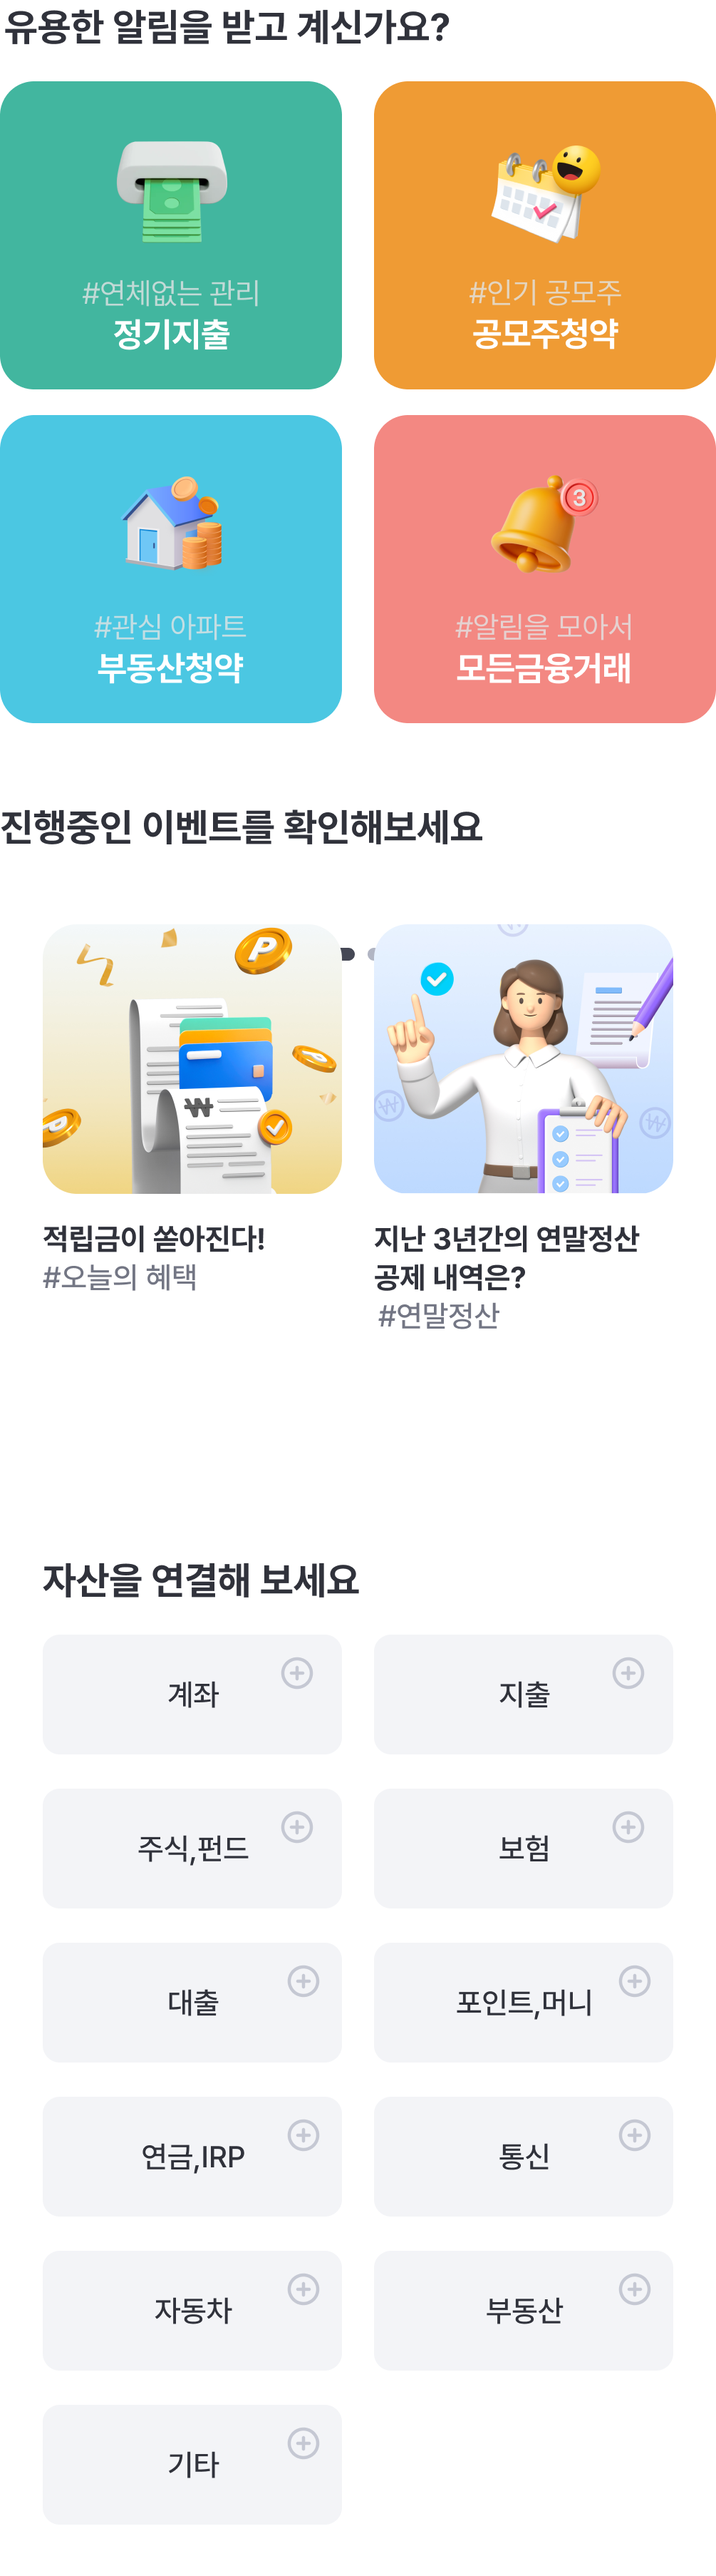
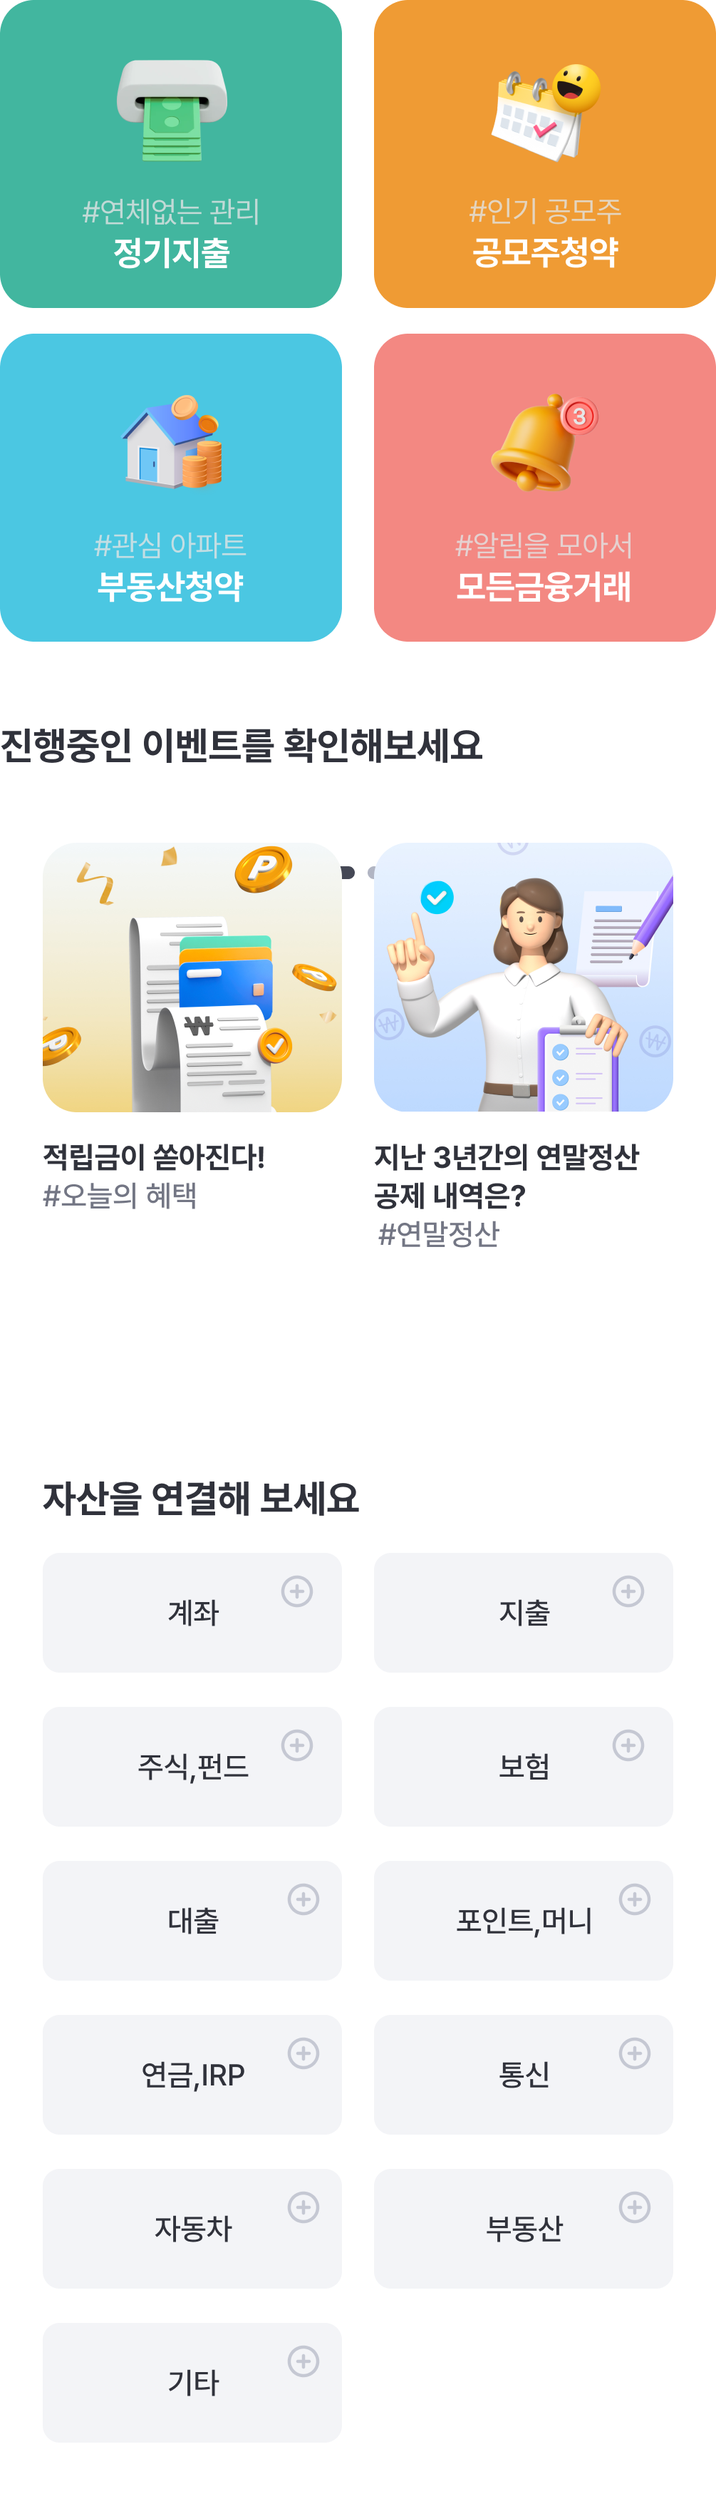
수정

diff --git a/a-asset.html b/a-asset.html
@@ -11,17 +11,27 @@
         <!-- css style -->
         <style>
             .container{position:relative;height:auto;background:#F3F4F7 !important;}
-            .container::before{content:"";position:absolute;top:0;left:0;right:0;width:375px;height:400px;background:url("./images/A/asset/RectangleBg.png") no-repeat 0 0 / 100%;z-index:}
-            header, .top_menu, .contents{position: relative;}
+            .container::before{content:"";position:fixed;top:0;left:0;right:0;margin:0 auto;width:375px;height:400px;background:url("./images/A/asset/RectangleBg_1.png") no-repeat 0 0 / 100%;}
+            .container.on::before{content:"";position:fixed;top:0;left:0;right:0;margin:0 auto;width:375px;height:400px;background:url("./images/A/asset/RectangleBg_2.png") no-repeat 0 0 / 100%;}
+            .top_menu{position:fixed;z-index:50;}
+            header, .top_menu{background:#4393F0 }
+            .contents{padding-top:140px;}
             .alarm_banner{margin:0 auto;padding:20px 20px 0 20px}
+            .alarm_banner{position:relative;}
             .content-1{position:relative;padding:32px 20px 36px}
             .content-2{position:relative;padding:0 20px 52px}
+            .content-2 .cont_tit{font-size:18px;font-weight:700;line-height:26px;color:#30323B;}
+            .cont_tit + img{margin-top:12px;}
+            img + .cont_tit{margin-top:36px;}
             /* 아코디언 */
             .accordion{margin-top:16px;padding:24px 20px 20px 20px;border-radius:16px;background:#FFFFFF;}
-            .accordion h2{display:flex;justify-content:center;padding-top:16px;font-size:14px;font-weight:500;line-height:20px;color:#737684;}
+            .accordion h2{position:relative;display:flex;justify-content:center;margin-top:40px;padding-top:16px;font-size:14px;font-weight:500;line-height:20px;border-top:1px solid #E1E3E4;color:#737684;}
             .accordion h2 a{position:relative;}
-            .accordion h2 a::after{content:"";position:absolute;right:-28px;top:50%;transform:translateY(-50%)rotate(180deg);width:12px;height:12px;background:url("./images/asset/btn_arrow.svg") no-repeat 0 0 / 100%;}
-            .accordion h2 a.open::after{transform: translateY(-50%);}
+            .accordion h2 a::after{content:"";position:absolute;right:-16px;top:50%;transform:translateY(-50%);width:12px;height:12px;background:url("./images/A/asset/btn_arrow.svg") no-repeat 0 0 / 100%;transition:transform 0.3s ease;}
+            .accordion h2 a.open::after{transform:translateY(-50%)  rotate(180deg);}
+            .accordion h2 a.close::after{transform:translateY(-50%) rotate(0deg);}
+            .graph + .accor_contents{margin-top:40px;}
+            .accor_contents{display:none;}
             /* bar graph */
             .graph {overflow:hidden;display:flex;align-items:flex-end;justify-content:center;position:absolute;top:224px;left:40px;width:295px;height:142px;}
             .bar {width:28px;border-radius:8px;background:#E1E3EA;transition:transform 0.5s ease-out;transform:translateY(100%);}
@@ -43,14 +53,14 @@
         <div class="container type">
             <div class="top_menu">
                 <img src="./images/A/asset/gnb_sub.png" alt="">
+                <img class="tab_menu" src="./images/A/asset/2dthMenu.png" alt="">
             </div>
             <!-- contents -->
             <div class="contents">
-                <img src="./images/A/asset/2dthMenu.png" alt="">
                 <img class="alarm_banner" src="./images/A/asset/banner.png" alt="">
                 <div class="content-1">
                     <img src="./images/A/asset/myasset.png" alt="">
-                    <div class="accordion">
+                    <div class="accordion">  
                         <img class="accor_txt" src="./images/A/asset/acc_text.png" alt="">
                         <div class="graph">
                             <div class="bar bar-1"></div>
@@ -62,43 +72,95 @@
                             <img class="graph_txt01" src="./images/A/asset/textbox01.png" alt="">
                             <img class="graph_txt02" src="./images/A/asset/textbox02.png" alt="">
                         </div>
-                        <div class="folding-panel">
+                        <div class="accor_contents">
                             <img src="./images/A/asset/acc_contents.png" alt="">
                         </div>
                         <h2><a href="#none" class="folding-btn close" role="button">상세 열기</a></h2>
                     </div>
-
                 </div>
                 <div class="content-2">
-                    <img src="./images/A/asset/contents.png" alt="">
+                    <p class="cont_tit">유용한 알림을 받고 계신가요?</p>
+                    <img src="./images/A/asset/contents01.png" alt="">
+                    <p class="cont_tit">진행중인 이벤트를 확인해보세요</p>
+                    <img src="./images/A/asset/contents02.png" alt="">
                 </div>
             </div>
             <!-- // contents -->
         </div>
     </body> 
     <script>
-        $(document).ready(function() {
-            const bars = $('.bar');
-            const totalBars = bars.length;
-            const animationDelay = 200;
-            const textDelay = 300;
-    
-            bars.each(function(index) {
-                const bar = $(this);
-                setTimeout(function() {
-                    bar.css('transform', 'translateY(0)');
-                    
-                    if (index === totalBars - 1) {
-                        setTimeout(function() {
-                            $('.graph_txt01').css('opacity', '1');
-                            
-                            setTimeout(function() {
-                                $('.graph_txt02').css('opacity', '1');
-                            }, textDelay);
-                        }, animationDelay);
+$(document).ready(function() {
+    const contTitElements = document.querySelectorAll('.cont_tit');
+    contTitElements.forEach((element, index) => {
+        const observer = new IntersectionObserver((entries) => {
+            entries.forEach(entry => {
+                if (entry.isIntersecting) {
+                    if (document.querySelector('.container').classList.contains('on')) {
+                        entry.target.style.color = 'white';
+                    } else {
+                        entry.target.style.color = '';
                     }
-                }, index * animationDelay);
+                } else {
+                    entry.target.style.color = '';
+                }
             });
-        });
+        }, { threshold: 0.5 });
+
+        observer.observe(element);
+    });
+
+    // 스크롤 이벤트 핸들러
+    $(window).on('scroll', function() {
+        var tabMenuBottom = $('.tab_menu').offset().top + $('.tab_menu').outerHeight();
+        var content2Top = $('.content-2').offset().top;
+        var scrollTop = $(window).scrollTop();
+
+        if (scrollTop + tabMenuBottom >= content2Top) {
+            $('.container').addClass('on');
+            $('header, .top_menu').css('background', '#7A43F0');
+        } else {
+            $('.container').removeClass('on');
+            $('header, .top_menu').css('background', '#4393F0');
+        }
+    });
+
+    // 그래프 애니메이션
+    const bars = $('.bar');
+    const totalBars = bars.length;
+    const animationDelay = 200;
+    const textDelay = 300;
+
+    bars.each(function(index) {
+        const bar = $(this);
+        setTimeout(function() {
+            bar.css('transform', 'translateY(0)');
+            if (index === totalBars - 1) {
+                setTimeout(function() {
+                    $('.graph_txt01').css('opacity', '1');
+                    setTimeout(function() {
+                        $('.graph_txt02').css('opacity', '1');
+                    }, textDelay);
+                }, animationDelay);
+            }
+        }, index * animationDelay);
+    });
+
+    // 아코디언 기능
+    $('.accordion .folding-btn').on('click', function(e) {
+        e.preventDefault();
+        var $this = $(this);
+        var $accordion = $this.closest('.accordion');
+        var $contents = $accordion.find('.accor_contents');
+        if ($contents.is(':hidden')) {
+            $contents.slideDown(300);
+            $this.text('상세 닫기');
+            $this.removeClass('close').addClass('open');
+        } else {
+            $contents.slideUp(300);
+            $this.text('상세 열기');
+            $this.removeClass('open').addClass('close');
+        }
+    });
+});
     </script>
 </html>
